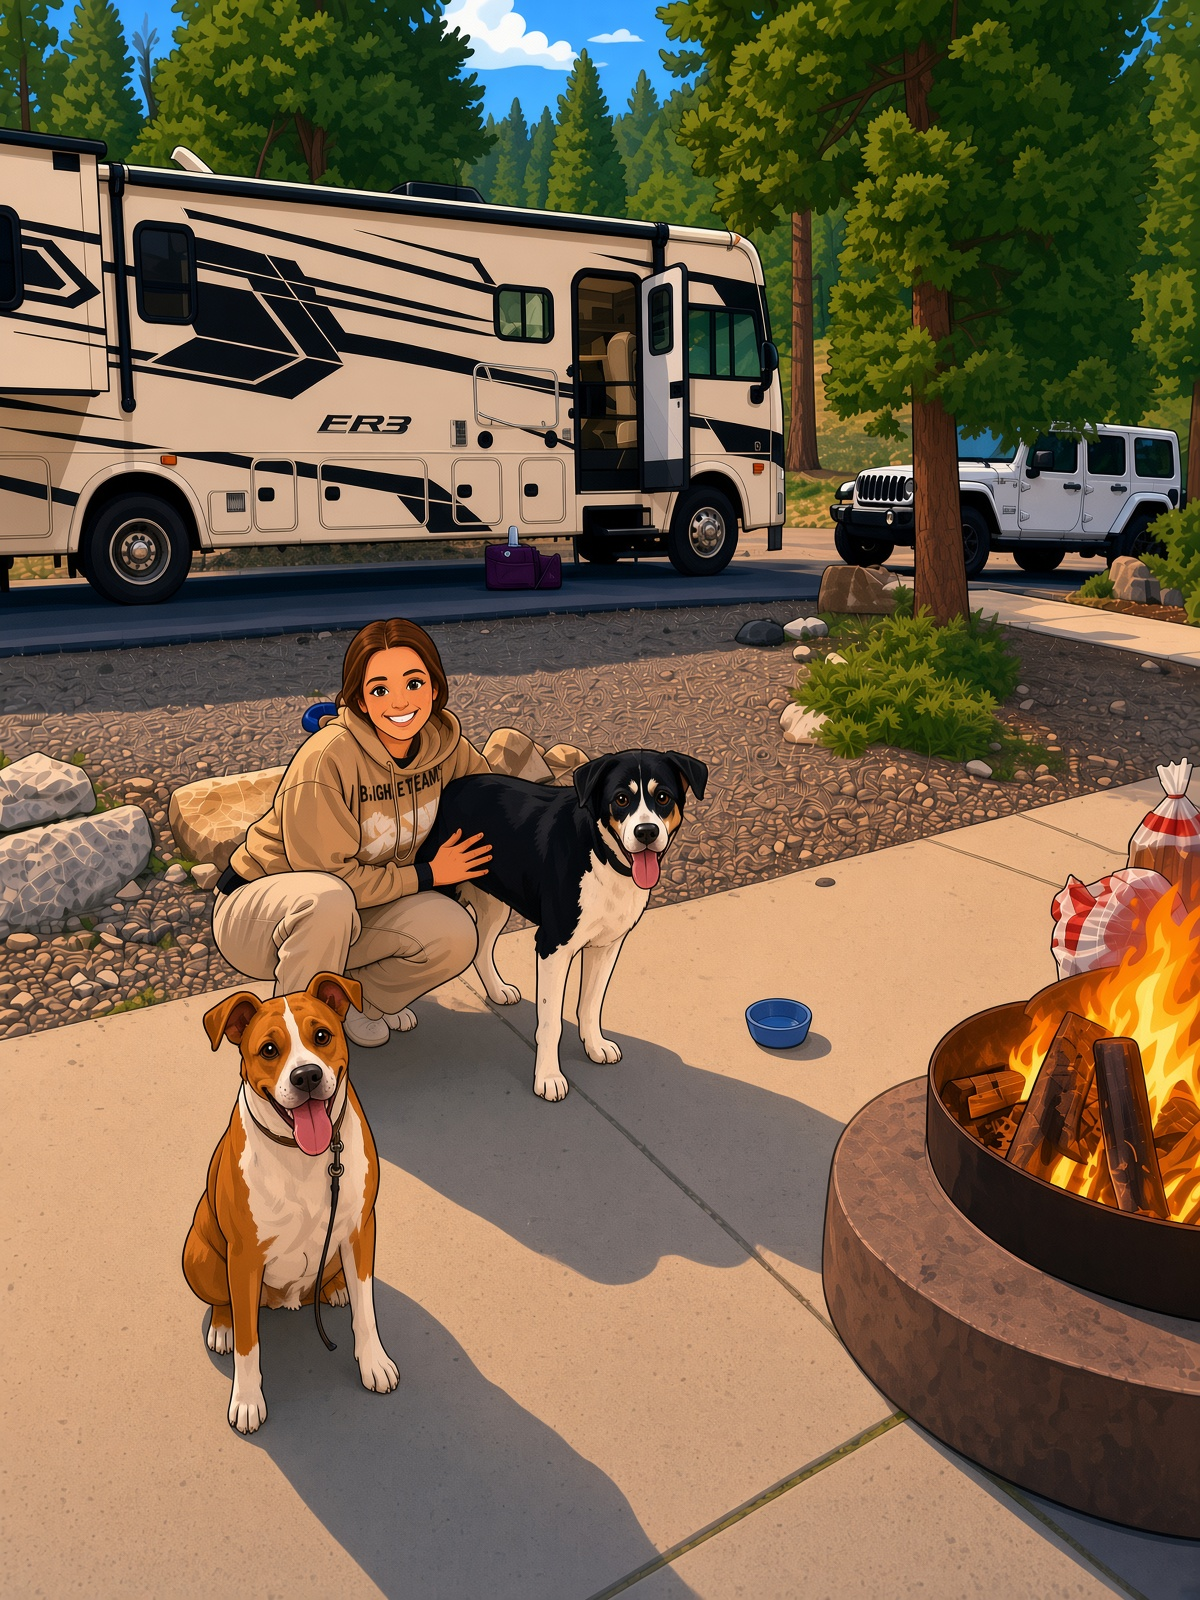
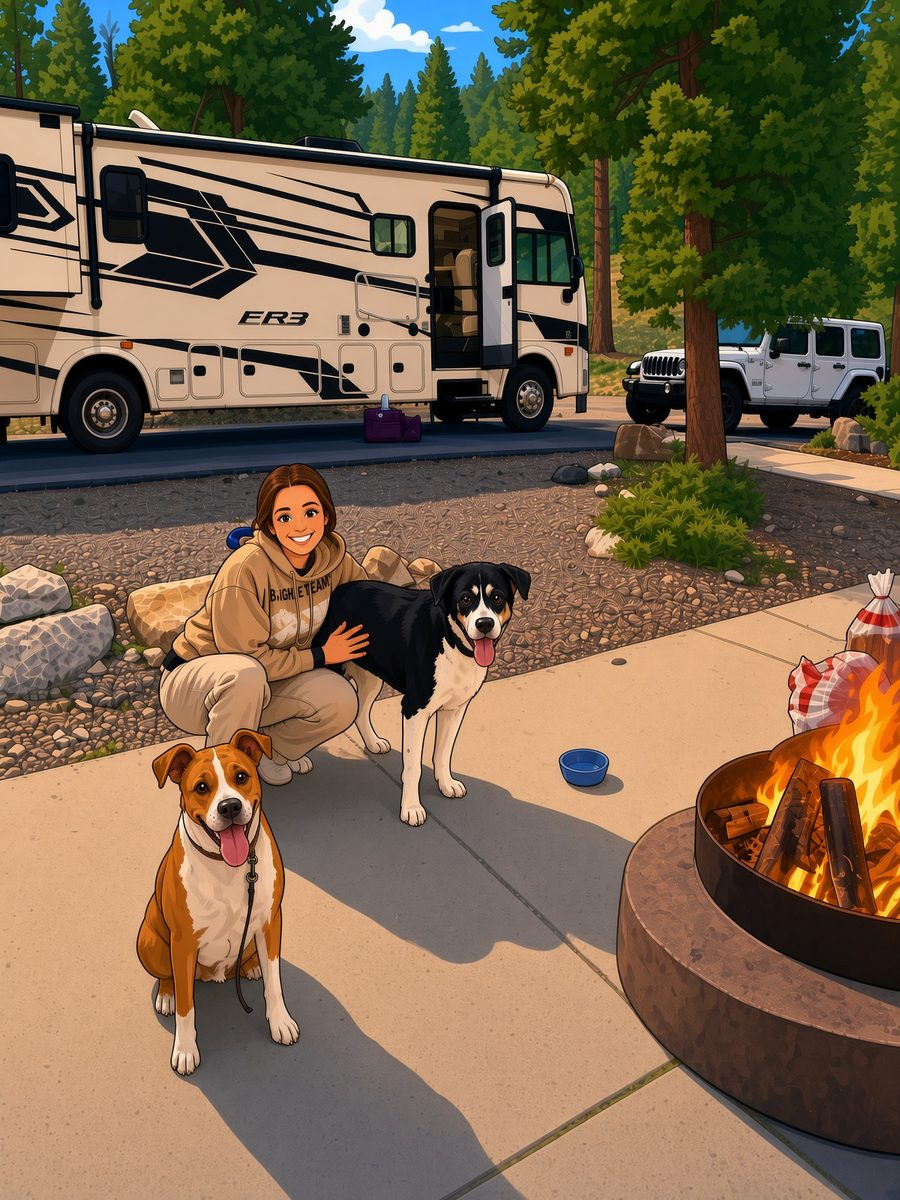
Optimize story-camping.jpg from 828KB to 228KB
Was nearly 4x the weight of the other story photos and the heaviest asset
on the page. Resized 1200x1600 -> 900x1200 and re-encoded at q82,
progressive, 4:2:0 chroma. Now 228KB, in line with story1.jpg's 218KB.

900px still leaves 2.08x headroom over the 432px it actually renders at,
so it stays sharp on retina. Measured 41 dB PSNR against the original at
render size — visually identical.

Intrinsic width/height attributes updated on both story pages to match
the new dimensions.

Changed region(s): [[0.2178, 0.1542, 0.2489, 0.185], [0.1867, 0.6783, 0.2178, 0.7092]]

diff --git a/our-story-flipbook.html b/our-story-flipbook.html
@@ -295,7 +295,7 @@
       <div class="pg pg--recto">
         <div class="pg-inner">
           <figure class="plate">
-            <img src="images/story-camping.jpg" width="1200" height="1600" loading="lazy" decoding="async"
+            <img src="images/story-camping.jpg" width="900" height="1200" loading="lazy" decoding="async"
                  alt="Chelsea crouching with both dogs at a pine-shaded RV campsite, the motorhome parked behind and a campfire burning nearby">
           </figure>
           <div class="folio">4</div>

diff --git a/our-story.html b/our-story.html
@@ -307,7 +307,7 @@
     </div>
     <div class="book-page book-page--recto">
       <figure class="plate">
-        <img src="images/story-camping.jpg" width="1200" height="1600" loading="lazy" decoding="async"
+        <img src="images/story-camping.jpg" width="900" height="1200" loading="lazy" decoding="async"
              alt="Chelsea crouching with both dogs at a pine-shaded RV campsite, the motorhome parked behind and a campfire burning nearby">
       </figure>
       <div class="folio">4</div>
